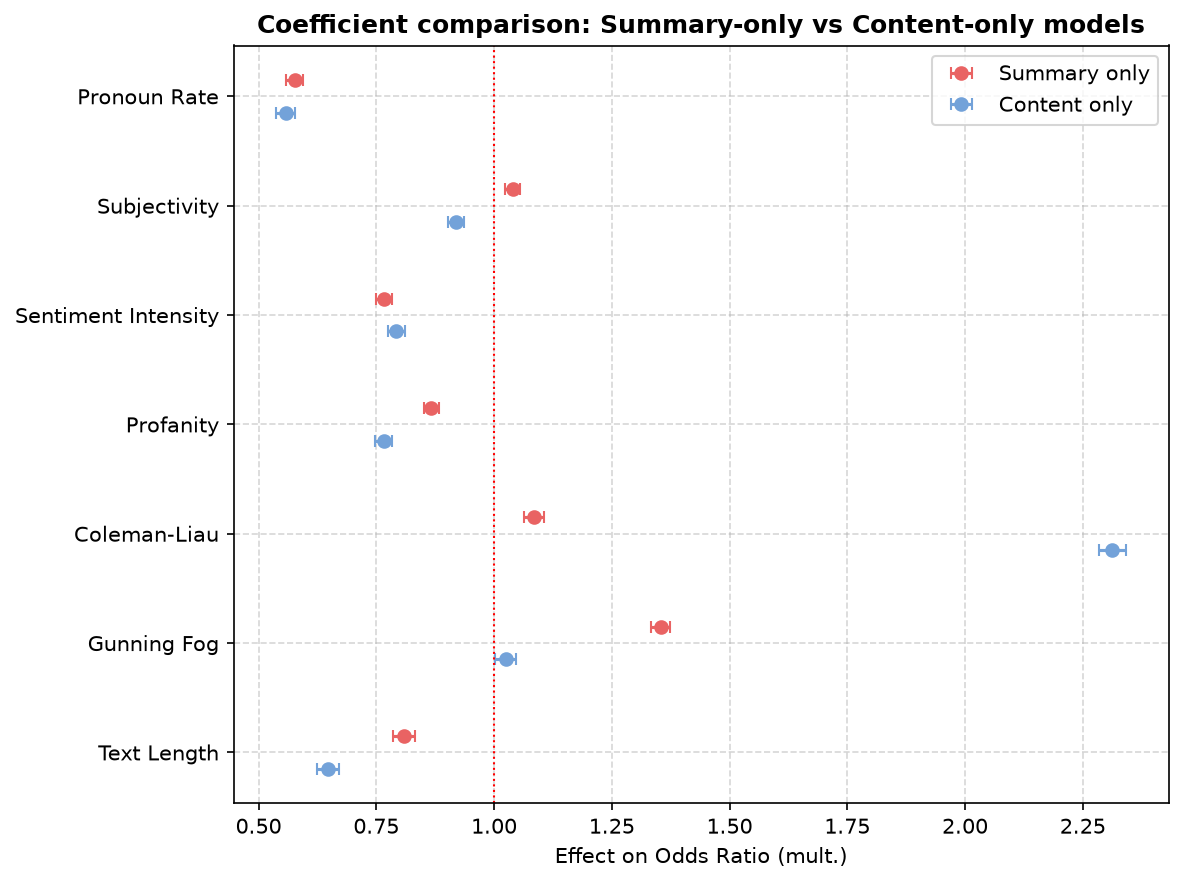
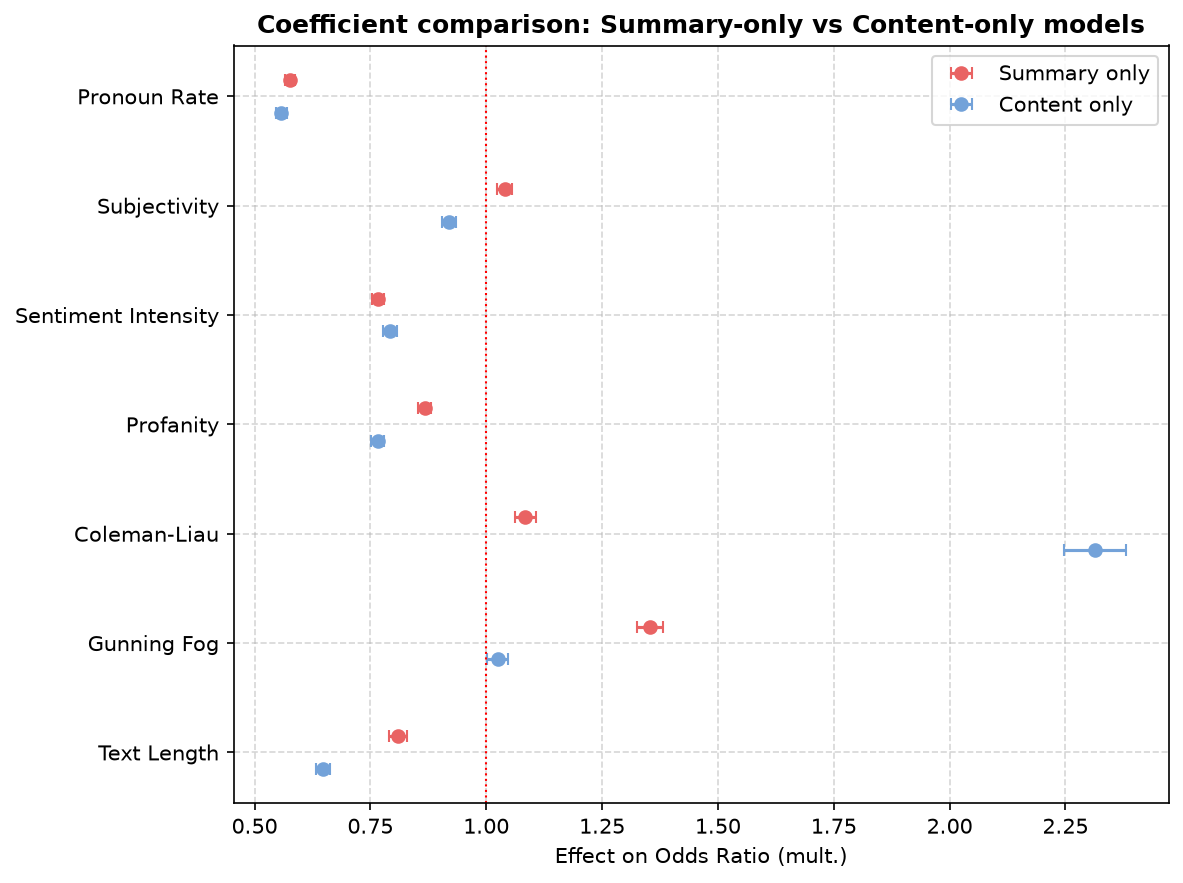
small corrections in coef plot, report formatting, changed description in yaml

diff --git a/README.md b/README.md
@@ -1,29 +1,4 @@
-
-## Project Report Template
-
-> This repository serves as a template for your project reports as part of the Document Analysis lecture. To set up your project report as a webpage using GitHub Pages, simply follow the steps outlined in the next chapter.
->
->**Some Organizational Details:** Get creative with your project ideas! Just make sure they relate to Natural Language Processing and incorporate this specified dataset: [Link to data](https://huggingface.co/datasets/webis/tldr-17), [Link to paper](https://aclanthology.org/W17-4508.pdf). Submissions should be made in teams of 2-3 students. Each team is expected to create a blog-style project website, using GitHub Pages, to present their findings. Additionally, teams will deliver a lightning talk during the final lecture to discuss their project. Add all your code, such as Python scripts and Jupyter notebooks, to the `code` folder. Use markdown files for your project report. [Here](https://docs.gitlab.com/ee/user/markdown.html) you can read about how to format Markdown documents. 
->
->Have fun working on your project! 🥳
-
-## Setup The Report Template
-
-Follow this steps to set up your project report:
-
-1. **Fork the Repository:** Begin by creating a copy of this repository for your own use. Click the `Fork` button at the top right corner of this page to do this.
-
-2. **Configure GitHub Pages:** Navigate to `Settings` -> `Pages` in your newly forked repository. Under the `Branch` section, change from `None` to `master` and then click `Save`.
-
-3. **Customize Configuration:** Modify the `_config.yml` file within your repository to personalize your site. Update the `title:` to reflect the title of your project and adjust the `description:` to provide a brief summary.
-
-4. **Start Writing:** Start writing your report by modifying the `README.md`. You can also add new Markdown files for additional pages by modifying the `_config.yml` file. Use the standard [GitHub Markdown syntax](https://docs.github.com/en/get-started/writing-on-github/getting-started-with-writing-and-formatting-on-github/basic-writing-and-formatting-syntax) for formatting. 
-
-5. **Access Your Site:** Return to `Settings` -> `Pages` in your repository to find the URL to your live site. It typically takes a few minutes for GitHub Pages to build and publish your site after updates. The URL to access your live site follows this schema: `https://<<username>>.github.io/<<repository_name>>/`
-
-***
-
-# Project Title
+# G'schwolla G'schwätzt - Detecting Scientific Language Through Linguistic Features
 
 Group members: Ludwig Kunz, Marco Stöhr, Robert Seidel
 
@@ -153,7 +128,7 @@ science-related content tends to be more objective and less vulgar in tone. Gunn
 | Sentiment Intensity | -0.23 | [-0.25, -0.21] | 0.79 | [0.78, 0.81] |
 
 ![Coefficient Comparison](figures/coef_comparison_summary_content.png)
-*Figure 3: Standardized coefficient comparison between the Summary-only and Content-only models.*
+*Figure 3: Standardized odds ratio comparison between summary-only and content-only model. Whiskers indicate 95% confidence intervals.*
 
 ## Conclusion
 
